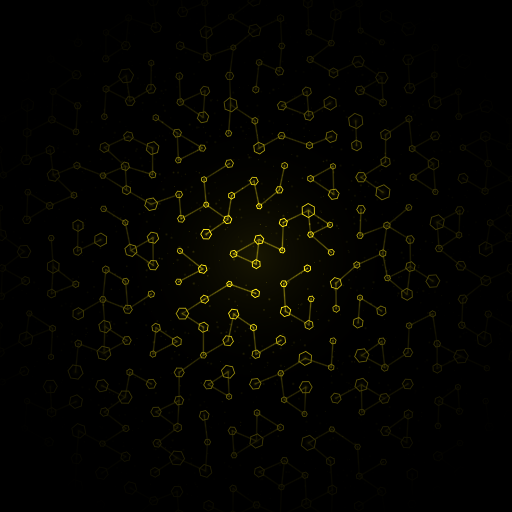
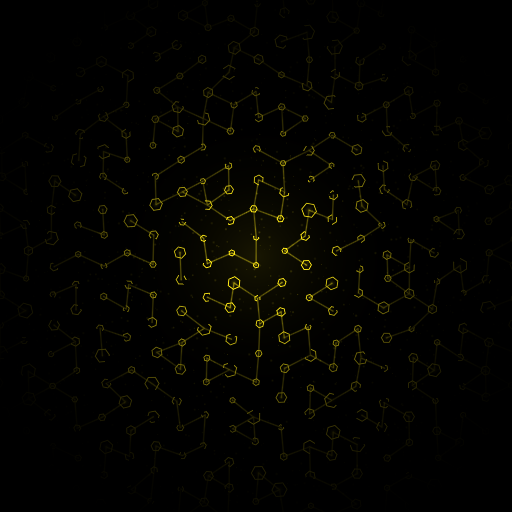
Corprus is torn, and both texture builds are written
Half the Corprus plates now lose one or two of their six sides, with the
interior fill dimmed. Healthy casting never shows a broken plate. That restores
the distinction Canon Part 9 wanted between Zenaric casting and Corprus, and
makes it out of shape rather than density - which is sturdier, since density
stopped separating them once the plates got small. Same material, damaged, which
is what Part 3a says Corprus is.

Both builds are on disk: tools/build/vfx-vanilla/Textures and vfx-momw/Textures,
six files each, uncompressed 32-bit BGRA at 512. One data= line adds them and
removing the line removes them. Nothing written into mod/, which stays shared
between profiles.

Plugins rebuilt for both profiles at the same time so everything on disk is one
generation: 236 records each, 7 authored, and the Lua and Python engines still
agree over all 131 fields.

diff --git a/tools/scripts/make_vfx.py b/tools/scripts/make_vfx.py
@@ -100,24 +100,43 @@ def hex_field(size, cell, dense, seed):
                 # Wide size variation. A field of one-size plates reads as a
                 # pattern; nanites are a population, not a print.
                 scale = rng.choice([0.16, 0.24, 0.34], p=[0.45, 0.35, 0.20])
+                # Corprus is the same material, damaged. Half its plates lose a
+                # side or two, which healthy casting never shows - that is the
+                # distinction Part 9 wanted, made of shape rather than density.
+                broken = ()
+                if dense and rng.random() < 0.55:
+                    broken = tuple(rng.choice(6, size=rng.integers(1, 3),
+                                              replace=False))
                 centres.append((cx, cy, scale * cell * rng.uniform(0.85, 1.15),
-                                rng.uniform(0.0, np.pi / 3)))
+                                rng.uniform(0.0, np.pi / 3), broken))
 
     edge = max(size / 512.0, 1.0) * (1.1 if dense else 1.4)
-    for cx, cy, radius, angle in centres:
+    for cx, cy, radius, angle, broken in centres:
         d = _hex_distance(x, y, cx, cy, angle)
         rim = np.clip(1.0 - np.abs(d - radius) / edge, 0.0, 1.0)
         fill = np.clip((radius - d) / (radius * 0.9), 0.0, 1.0) ** 2
+        if broken:
+            # Which of the six sides a pixel belongs to, in the plate's own
+            # frame. Knock out the chosen ones and the plate reads as a piece
+            # of something rather than a shape.
+            theta = np.arctan2(y - cy, x - cx) - angle
+            sector = np.floor(((theta + np.pi) % (2 * np.pi))
+                              / (np.pi / 3)).astype(np.int8)
+            keep = np.ones_like(rim)
+            for side in broken:
+                keep[sector == side] = 0.0
+            rim = rim * keep
+            fill = fill * 0.35
         plates = np.maximum(plates, rim * rim * (3 - 2 * rim))
         plates = np.maximum(plates, fill * (0.30 if dense else 0.22))
 
     # Filaments: each plate reaches for one or two neighbours, never all of
     # them - a fully connected mesh reads as a net rather than as a swarm.
     width = max(size / 512.0, 0.6) * (1.3 if dense else 1.1)
-    for i, (cx, cy, radius, _a) in enumerate(centres):
+    for i, (cx, cy, radius, _a, _brk) in enumerate(centres):
         near = sorted(
             ((np.hypot(cx - ox, cy - oy), ox, oy)
-             for j, (ox, oy, _r, _b) in enumerate(centres) if j != i),
+             for j, (ox, oy, _r, _b, _k) in enumerate(centres) if j != i),
             key=lambda t: t[0])[:3]
         for dist, ox, oy in near[:rng.integers(1, 3)]:
             if dist > cell * 2.2:

diff --git a/tools/reports/vfx.md b/tools/reports/vfx.md
@@ -115,7 +115,27 @@ between dust and a swarm.
 **Approved for the first iteration** at this point - shape settled, both builds
 generating, nothing shipped yet.
 
+## Corprus is torn
+
+The distinction Part 9 wanted is back, and made of shape rather than density.
+Half the Corprus plates lose one or two of their six sides, and what fill they
+have is dimmed. Healthy casting never shows a broken plate. Same material,
+damaged - which is what Canon Part 3a says Corprus is.
+
+## Written
+
+Both builds are on disk:
+
+    tools/build/vfx-vanilla/Textures/*.dds     six files, 1 MB each
+    tools/build/vfx-momw/Textures/*.dds
+
+Uncompressed 32-bit BGRA at 512x512. Add one `data=` line for the matching
+profile; remove the line to remove the change. Nothing was written into `mod/`,
+which stays shared.
+
 ## Still open
 
-Whether to ship at all, given that it overrides Vurt's. And the grain shader,
-which Part 9 puts in post-processing rather than in particles - not started.
+The grain shader, which Part 9 puts in post-processing rather than in particles.
+Not started. And the only judgement that matters: how a plate reads in motion,
+under additive blending, against sky and in a small room. A still image cannot
+answer that.
